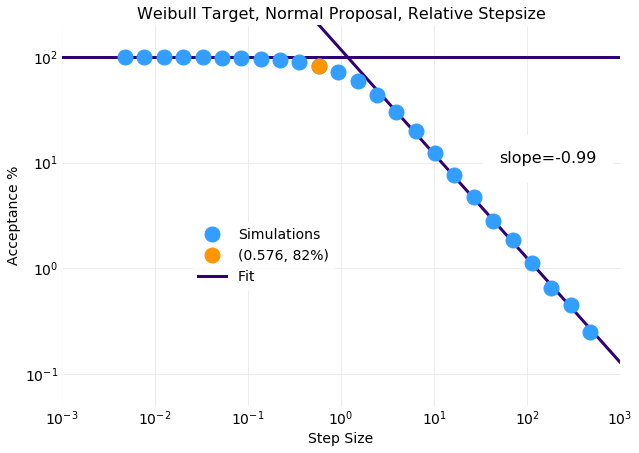
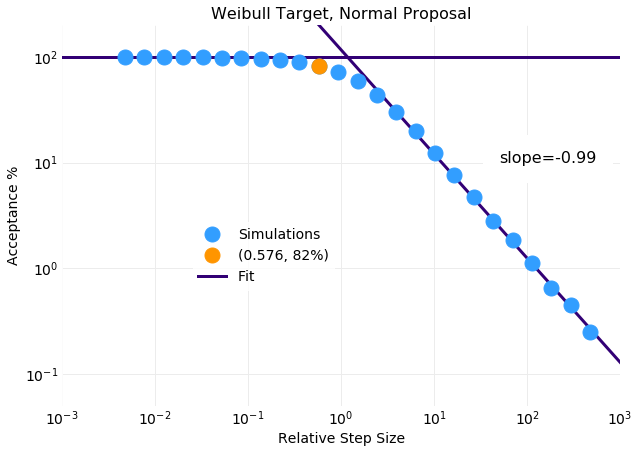
updated plt titles

Changed region(s): [[0.2081, 0.0, 0.8623, 0.0618], [0.4163, 0.9581, 0.6541, 0.989]]

diff --git a/hydrogen_notebooks/mcmc/metropolis_hastings/proposal_distribution_performance_comparison.py b/hydrogen_notebooks/mcmc/metropolis_hastings/proposal_distribution_performance_comparison.py
@@ -21,7 +21,7 @@ def acceptance_plot(title, x, y, idx, text_pos, best_idx, xlim, plot):
     xfit = numpy.linspace(-1.0, 3.0, 100)
     bbox = dict(boxstyle='square,pad=1', facecolor="#FFFFFF", edgecolor="white")
     figure, axis = pyplot.subplots(figsize=(10, 7))
-    axis.set_xlabel("Step Size")
+    axis.set_xlabel("Relative Step Size")
     axis.set_ylabel("Acceptance %")
     axis.set_title(title)
     axis.set_xlim(xlim)
@@ -78,7 +78,7 @@ normal_samples, normal_acceptance = run_simulation(normal_stepsize, target_pdf, 
 
 σ = stats.weibull_sigma(k, λ)
 normalized_step_size = normal_stepsize/σ
-title = f"Weibull Target, Normal Proposal, Relative Stepsize"
+title = f"Weibull Target, Normal Proposal"
 acceptance_plot(title, normalized_step_size, normal_acceptance, 13, [50.0, 10.0], 10, [10**-3, 10**3], "normal_proposal_acceptance_fit")
 
 # %%
@@ -98,5 +98,5 @@ for i in range(len(shape)):
 
 σ = stats.weibull_sigma(k, λ)
 normalized_step_size = numpy.sqrt(shape*gamma_stepsize**2)/σ
-title = f"Weibull Target, Gamma Proposal, Relative Stepsize"
+title = f"Weibull Target, Gamma Proposal"
 acceptance_plot(title, normalized_step_size, gamma_acceptance, 20, [20.0, 10.0], 13, [10**-2, 10**2], "gamma_proposal_acceptance_fit")
